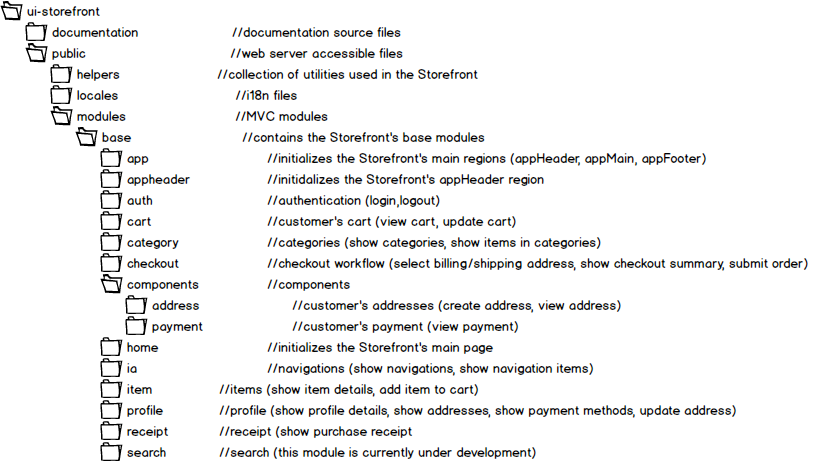
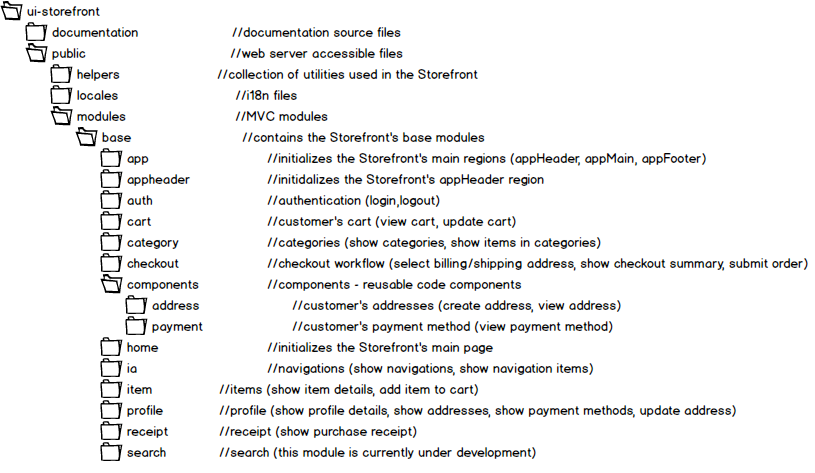
[OSD-67] Updating extension documentation.

Changed region(s): [[0.5215, 0.6808, 0.7669, 0.7104], [0.4294, 0.592, 0.6442, 0.6216]]

diff --git a/documentation/extending.md b/documentation/extending.md
@@ -1,14 +1,14 @@
 Customizing HTML5 Features
 ====================
 HTML5 Reference Storefront functionality is divided into modules. For example, profile, cart, authentication, checkout, and so on are all separate modules.
-An HTML5 Storefront module is the view, plus the code backing the view. This means each module is its own Model View Controller (MVC) component.
+An HTML5 Storefront module is the view, plus the code backing the view. This means that each module is its own Model View Controller (MVC) component.
 For example, the profile module contains all code to retrieve and update a customer's profile data in Cortex API (Model and Controller) and contains the HTML and JS code to show the customer's profile data in the Storefront (View).
 
 HTML5 Storefront Modular Design Benefits:
-* Customizable - Add a new feature by creating a new module and adding it to the <code>module</code> folder, as opposed to modifying multiple pieces of code throughout the Storefront to create functionality.
-* Maintainable - The Storefront's modular architecture enables you to make changes, i.e. add new functionality, enhance existing functionality, without breaking the entire system.
+* Customizable - Add a new feature by creating a new module and adding it to the <code>module</code> folder, as opposed to modifying multiple pieces of code throughout the Storefront to create the functionality.
+* Maintainable - The Storefront's modular architecture enables you to make changes, i.e. add new functionality and enhance existing functionality, without breaking the entire system.
 * Debuggable - Debug individual modules to isolate HTML5 Storefront issues, rather than debugging vast amounts of JS code.
-* Updatable - The HTML5 Reference Storefront is continually being developed. With your customized features and enhancements in distinct modules, you can more easily update the out-of-the-box code without overwriting your custom code.
+* Updatable - The HTML5 Reference Storefront is under continual development. With your customized features and enhancements in distinct modules, you can more easily update the out-of-the-box code without overwriting your custom code.
 
 **HTML5 Reference Storefront Modules**
 ![List of Modules](https://github.elasticpath.net/cortex/ui-storefront/raw/master/documentation/img/modulesList.png)
@@ -164,12 +164,14 @@ define(function (require) {
 
 **base.profile.views.js**
 
-A view defines the regions where the model's data will render. To understand what regions are, think of an e-commerce web page's layout. The login, search, titlebar, and so on are all regions on the page.
-Each region can be comprised of multiple subregions. The module's view defines these regions while the module's model defines the data that gets populated in the regions.
+A view defines the regions where the model's data will render. To better understand what regions are, think of the layout of an e-commerce web page. The login, search, title bar, and so on are all regions on the page.
+Each region can be comprised of multiple subregions.
+The data in the view's regions is populated by the module's model.
 Note that the view defines the regions, not the Storefront's look and feel, which is defined in the HTML5 Storefront's <a href="https://github.elasticpath.net/cortex/ui-storefront/blob/master/documentation/theming.md">theme</a>.
 
-Views extend Marionette.Layout: <code>var defaultLayout = Marionette.Layout.extend({</code>.
-<a href="https://github.com/marionettejs/backbone.marionette/blob/master/docs/marionette.layout.md">Marionette.layout</a> provides the specify regions as functions, nest layouts and views, and so on.
+
+A view's regions extend Marionette.Layout: <code>var defaultLayout = Marionette.Layout.extend({</code>.
+<a href="https://github.com/marionettejs/backbone.marionette/blob/master/docs/marionette.layout.md">Marionette.layout</a> provides a set of functionality to define regions, nest layouts, render layouts, organize UI elements, and configure events for the region.
 
 ```js
 define(function (require) {
@@ -201,7 +203,7 @@ define(function (require) {
 
 **tmpl.templates.html**
 
-Templates contain the regions where the module's view will populate the data.
+Templates contain the view's regions. <code><%= E %></code> is the model's namespace, from there you can access its values and view helpers. The namespace is defined in the module's controller.
 
 ```js
 <div id="[tmpl]TemplateContainer">
@@ -245,7 +247,11 @@ Please reference this section when building out your modules.
 
     ```
 
-4. You need to load your module views into this file so the application can understand where and how to load your views. In <code>public/router.js</code>, add:
+4. You need to load your module views into this file so the application can understand where and how to load your views. In <code>public/loadRegionContentEvents</code>.
+
+There are 3 main regions.
+![regions](https://github.elasticpath.net/cortex/ui-storefront/raw/master/documentation/img/regions.png)
+
 
      ```js
       var loadRegionContentEvents = {
